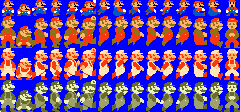
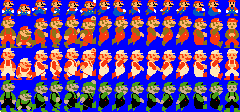
Added new spritesheet for marios boss mode and added it to the factory. Also removed the red boxes displaying for collisions

Changed region(s): [[0.0, 0.6964, 1.0, 1.0]]

diff --git a/Factories/MarioSpriteFactory.cs b/Factories/MarioSpriteFactory.cs
@@ -13,6 +13,7 @@ namespace Factories
         private Texture2D standardMarioSprites;
 		private Texture2D superMarioSprites;
 		private Texture2D fireMarioSprites;
+		private Texture2D bossMarioSprites;
 
 		private static MarioSpriteFactory factoryInstance = new MarioSpriteFactory();
 
@@ -35,6 +36,12 @@ namespace Factories
 		private ISprite fireFall;
 		private ISprite fireJump;
 		private ISprite fireFlag;
+		private ISprite bossIdle;
+		private ISprite bossCrouch;
+		private ISprite bossRun;
+		private ISprite bossFall;
+		private ISprite bossJump;
+		private ISprite bossFlag;
 		private ISprite dead;
 
 		public static MarioSpriteFactory Instance
@@ -54,6 +61,7 @@ namespace Factories
 			standardMarioSprites = game.Content.Load<Texture2D>("StandardMario");
 			superMarioSprites = game.Content.Load<Texture2D>("SuperMario");
 			fireMarioSprites = game.Content.Load<Texture2D>("FireMario");
+			bossMarioSprites = game.Content.Load<Texture2D>("BossMario");
 		}
 
 		/*
@@ -76,13 +84,22 @@ namespace Factories
 				else if (actionState is RunningState) return CreateSuperRunningMario(location);
 				else if (actionState is JumpingState || actionState is FallingState) return CreateSuperJumpingMario(location);
 				else if (actionState is FlagState) return CreateSuperFlagMario(location);
-			} else if (powerState is FireMario)
-            {
+			}
+			else if (powerState is FireMario)
+			{
 				if (actionState is IdleState) return CreateFireIdleMario(location);
 				else if (actionState is CrouchingState) return CreateFireCrouchingMario(location);
 				else if (actionState is RunningState) return CreateFireRunningMario(location);
 				else if (actionState is JumpingState || actionState is FallingState) return CreateFireJumpingMario(location);
 				else if (actionState is FlagState) return CreateFireFlagMario(location);
+			}
+			else if (powerState is BossMario)
+			{
+				if (actionState is IdleState) return CreateBossIdleMario(location);
+				else if (actionState is CrouchingState) return CreateBossCrouchingMario(location);
+				else if (actionState is RunningState) return CreateBossRunningMario(location);
+				else if (actionState is JumpingState || actionState is FallingState) return CreateBossJumpingMario(location);
+				else if (actionState is FlagState) return CreateBossFlagMario(location);
 			}
 
 			return CreateDeadMario(location);
@@ -267,7 +284,67 @@ namespace Factories
 			}
 			else return fireFlag;
 		}
+		//_____________________________________________________________
+		public ISprite CreateBossIdleMario(Vector2 location)
+		{
+			if (bossIdle == null)
+			{
+				bossIdle = new Sprite(false, true, location, bossMarioSprites, 1, 15, 0, 0);
+				return bossIdle;
+			}
+			else return bossIdle;
+		}
 
+		public ISprite CreateBossCrouchingMario(Vector2 location)
+		{
+			if (bossCrouch == null)
+			{
+				bossCrouch = new Sprite(false, true, location, bossMarioSprites, 1, 15, 1, 1);
+				return bossCrouch;
+			}
+			else return bossCrouch;
+		}
+
+		public ISprite CreateBossRunningMario(Vector2 location)
+		{
+			if (bossRun == null)
+			{
+				bossRun = new Sprite(false, true, location, bossMarioSprites, 1, 15, 2, 4);
+				return bossRun;
+			}
+			else return bossRun;
+		}
+
+		public ISprite CreateBossFallingMario(Vector2 location)
+		{
+			if (bossFall == null)
+			{
+				bossFall = new Sprite(false, true, location, bossMarioSprites, 1, 15, 5, 5);
+				return bossFall;
+			}
+			else return bossFall;
+		}
+
+		public ISprite CreateBossJumpingMario(Vector2 location)
+		{
+			if (bossJump == null)
+			{
+				bossJump = new Sprite(false, true, location, bossMarioSprites, 1, 15, 5, 5);
+				return bossJump;
+			}
+			else return bossJump;
+		}
+
+		public ISprite CreateBossFlagMario(Vector2 location)
+		{
+			if (bossFlag == null)
+			{
+				bossFlag = new Sprite(false, true, location, bossMarioSprites, 1, 15, 12, 12);
+				return bossFlag;
+			}
+			else return bossFlag;
+		}
+		//_____________________________________________________
 		public ISprite CreateDeadMario(Vector2 location)
         {
 			if (dead == null)

diff --git a/CollisionHandler.cs b/CollisionHandler.cs
@@ -49,9 +49,6 @@ namespace Collisions
                                 {
                                     if (obj1.TopCollision(obj2))
                                     {
-                                        obj1.Sprite.isCollided = true;
-                                        obj2.Sprite.isCollided = true;
-
                                         /*
                                          * If object is a block, we add it to the list so we can
                                          * handle collisions with multiple blocks at a time
@@ -66,26 +63,16 @@ namespace Collisions
                                         }
                                     } else if (obj1.BottomCollision(obj2))
                                     {
-                                        obj1.Sprite.isCollided = true;
-                                        obj2.Sprite.isCollided = true;
                                         obj1.Collision(BOTTOM, obj2);
                                         obj2.Collision(TOP, obj1);
                                     } else if (obj1.LeftCollision(obj2))
                                     {
-                                        obj1.Sprite.isCollided = true;
-                                        obj2.Sprite.isCollided = true;
                                         obj1.Collision(LEFT, obj2);
                                         obj2.Collision(RIGHT, obj1);
                                     } else if (obj1.RightCollision(obj2))
                                     {
-                                        obj1.Sprite.isCollided = true;
-                                        obj2.Sprite.isCollided = true;
                                         obj1.Collision(RIGHT, obj2);
                                         obj2.Collision(LEFT, obj1);
-                                    } else
-                                    {
-                                        obj1.Sprite.isCollided = false;
-                                        obj2.Sprite.isCollided = false;
                                     }
                                 }
                             }
